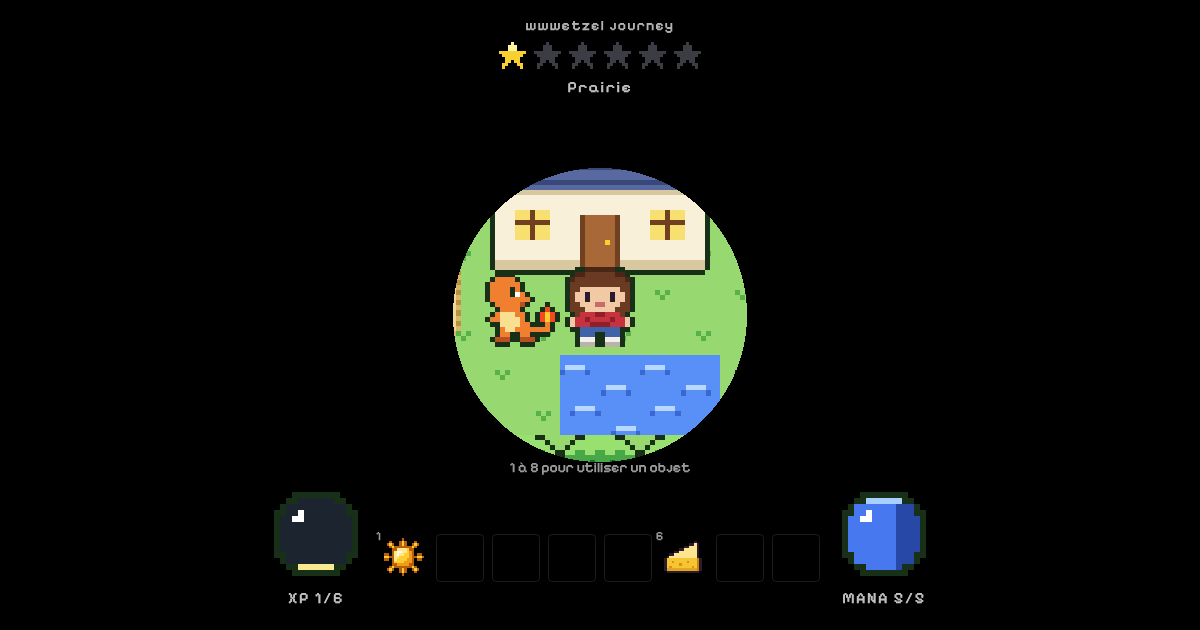
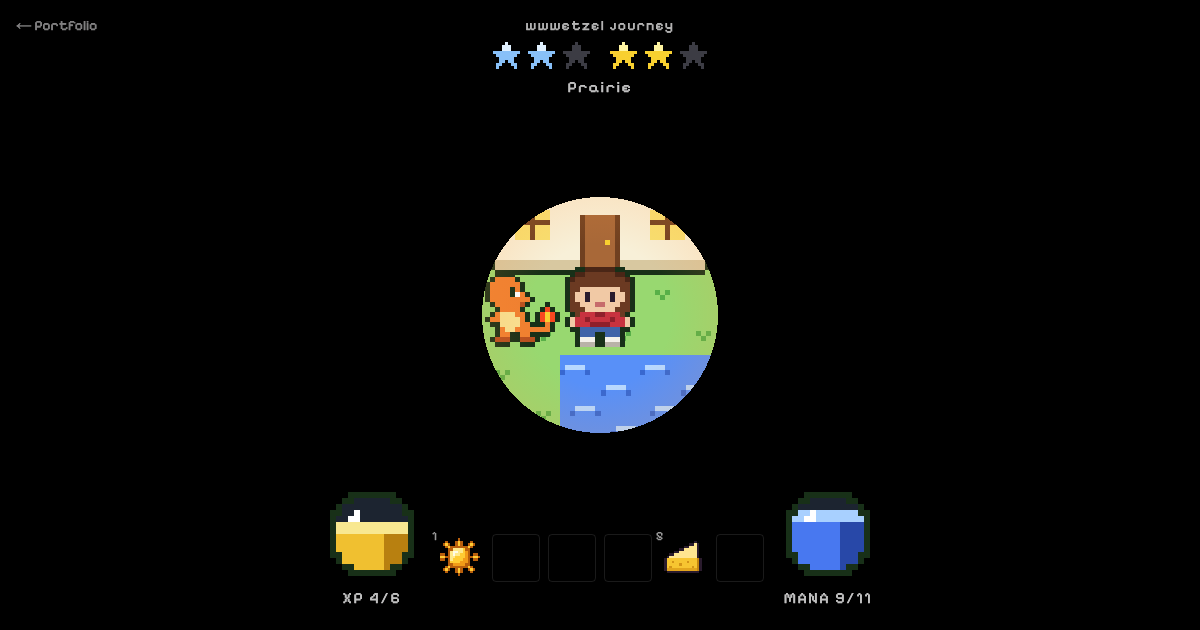
Halo plus généreux sur les écrans peu hauts, image d'aperçu à jour
- Plafond du halo entre le titre et le sac : il peut effleurer le bas d'une longue bulle, qui reste lisible
- Nouvelle image d'aperçu : étoiles de formation et pro, sac de six objets

diff --git a/src/app/globals.css b/src/app/globals.css
@@ -48,7 +48,7 @@ body {
   -webkit-user-select: none;
   -webkit-touch-callout: none;
   /* Le halo part à une taille confortable et grandit doucement ; la sixième étoile atteint toute la place entre la bulle et le sac */
-  --max-radius: min(calc(var(--cell) * 4), calc(50dvh - 14rem), calc(50vw - 0.75rem));
+  --max-radius: min(calc(var(--cell) * 4), calc(50dvh - 11.5rem), calc(50vw - 0.75rem));
   --start-radius: calc(var(--max-radius) * 0.7);
   --radius: calc(var(--start-radius) + (var(--max-radius) - var(--start-radius)) * var(--halo));
 }
